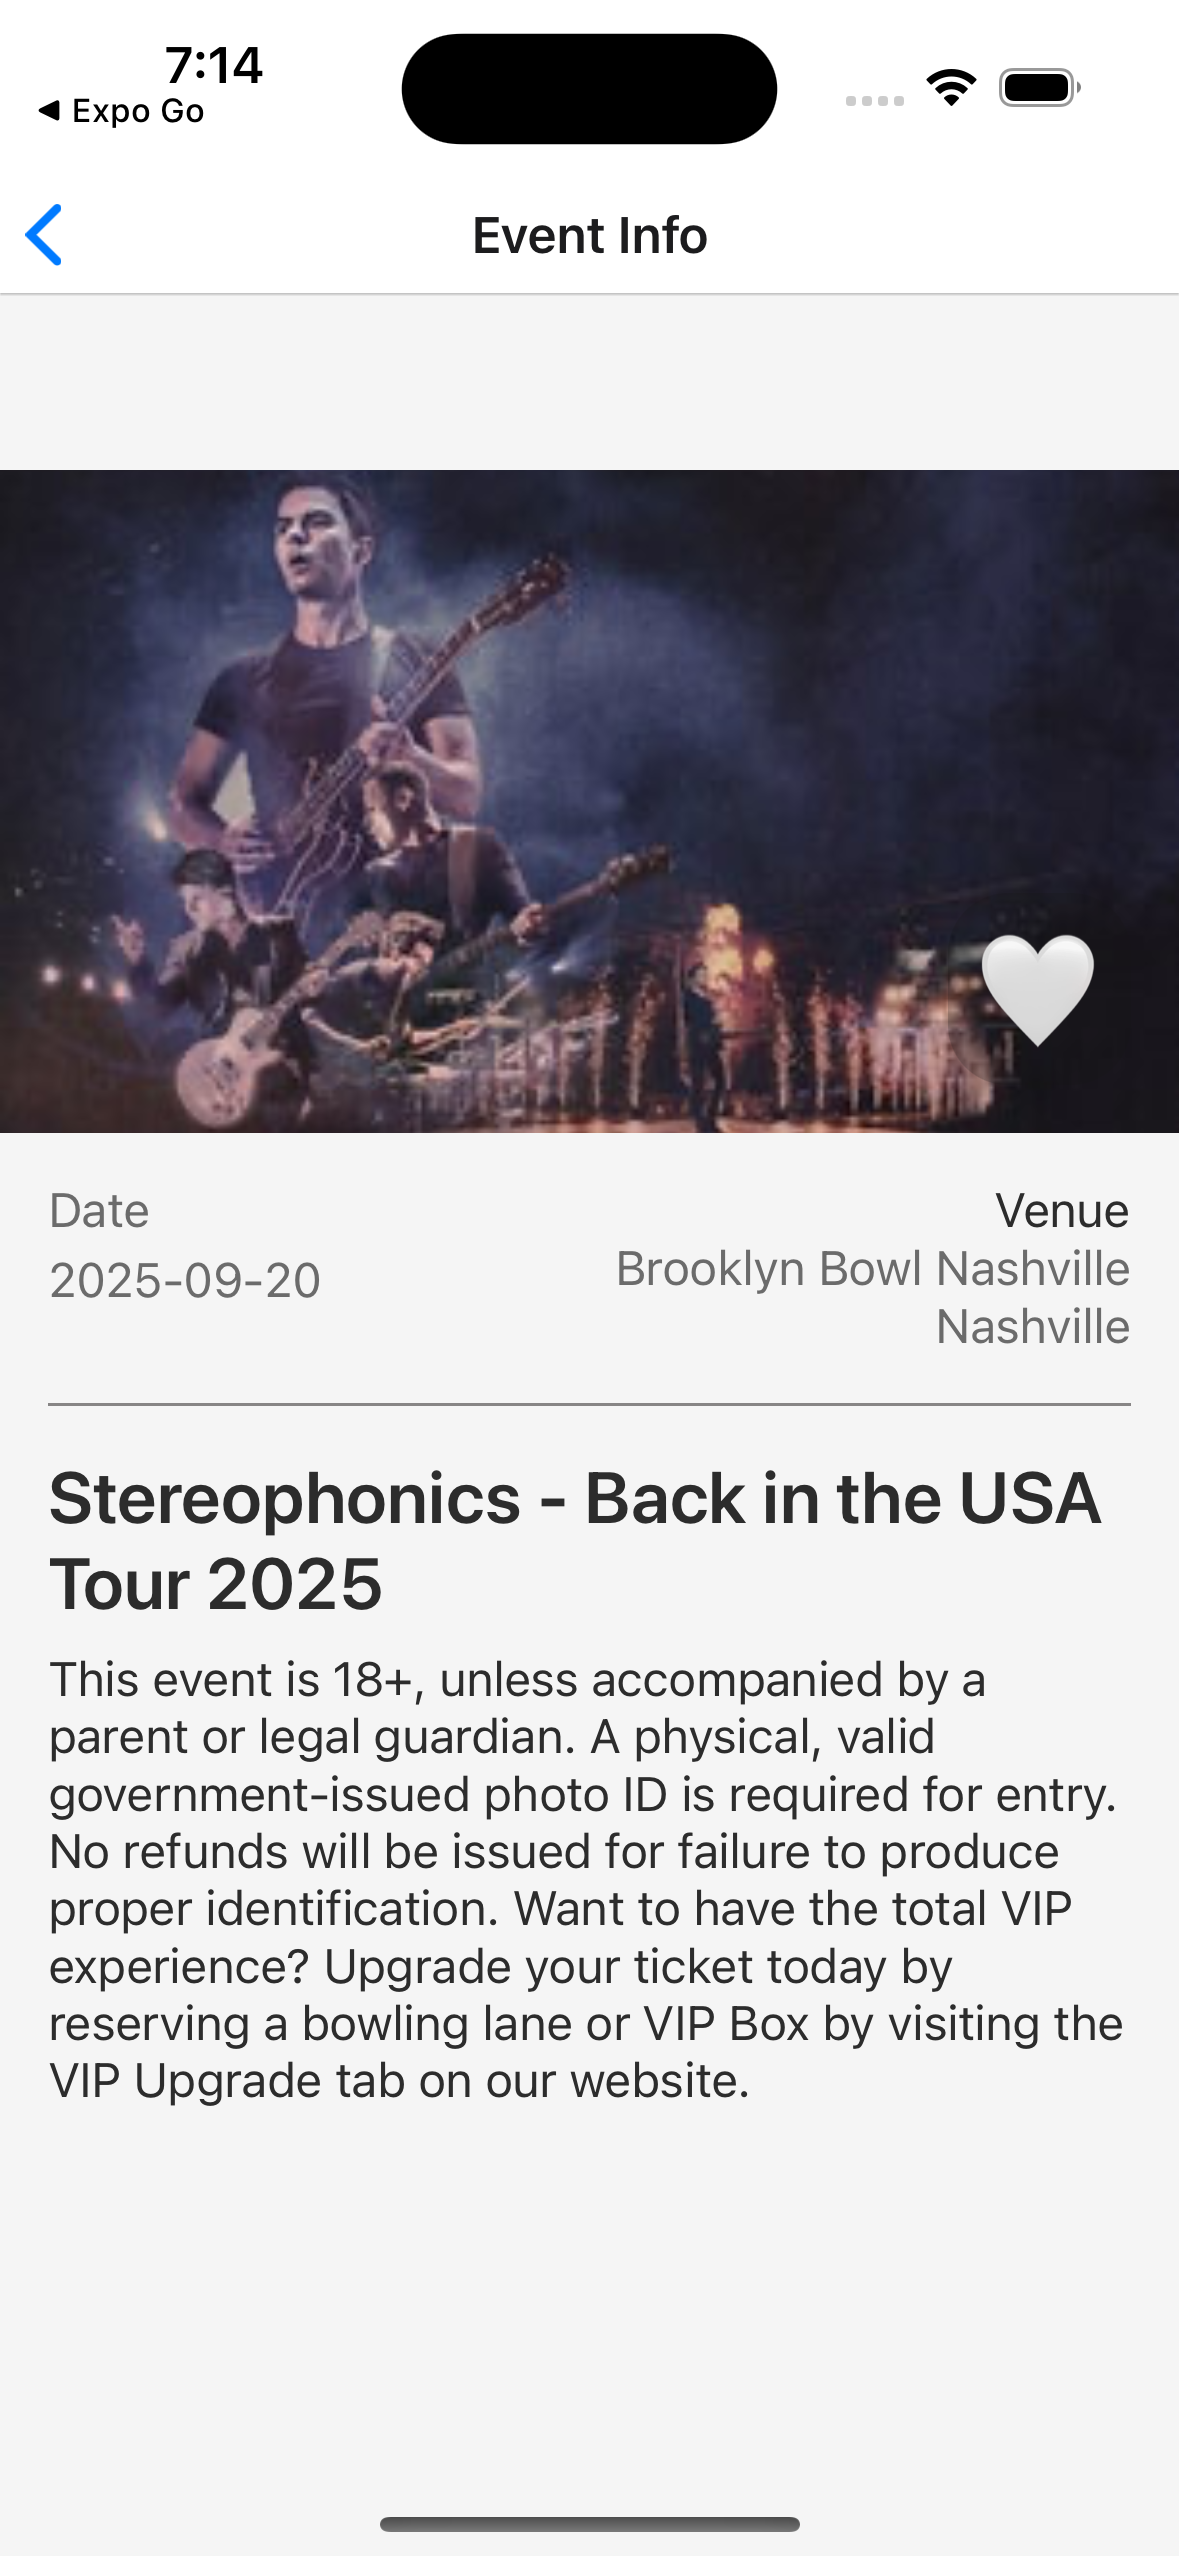
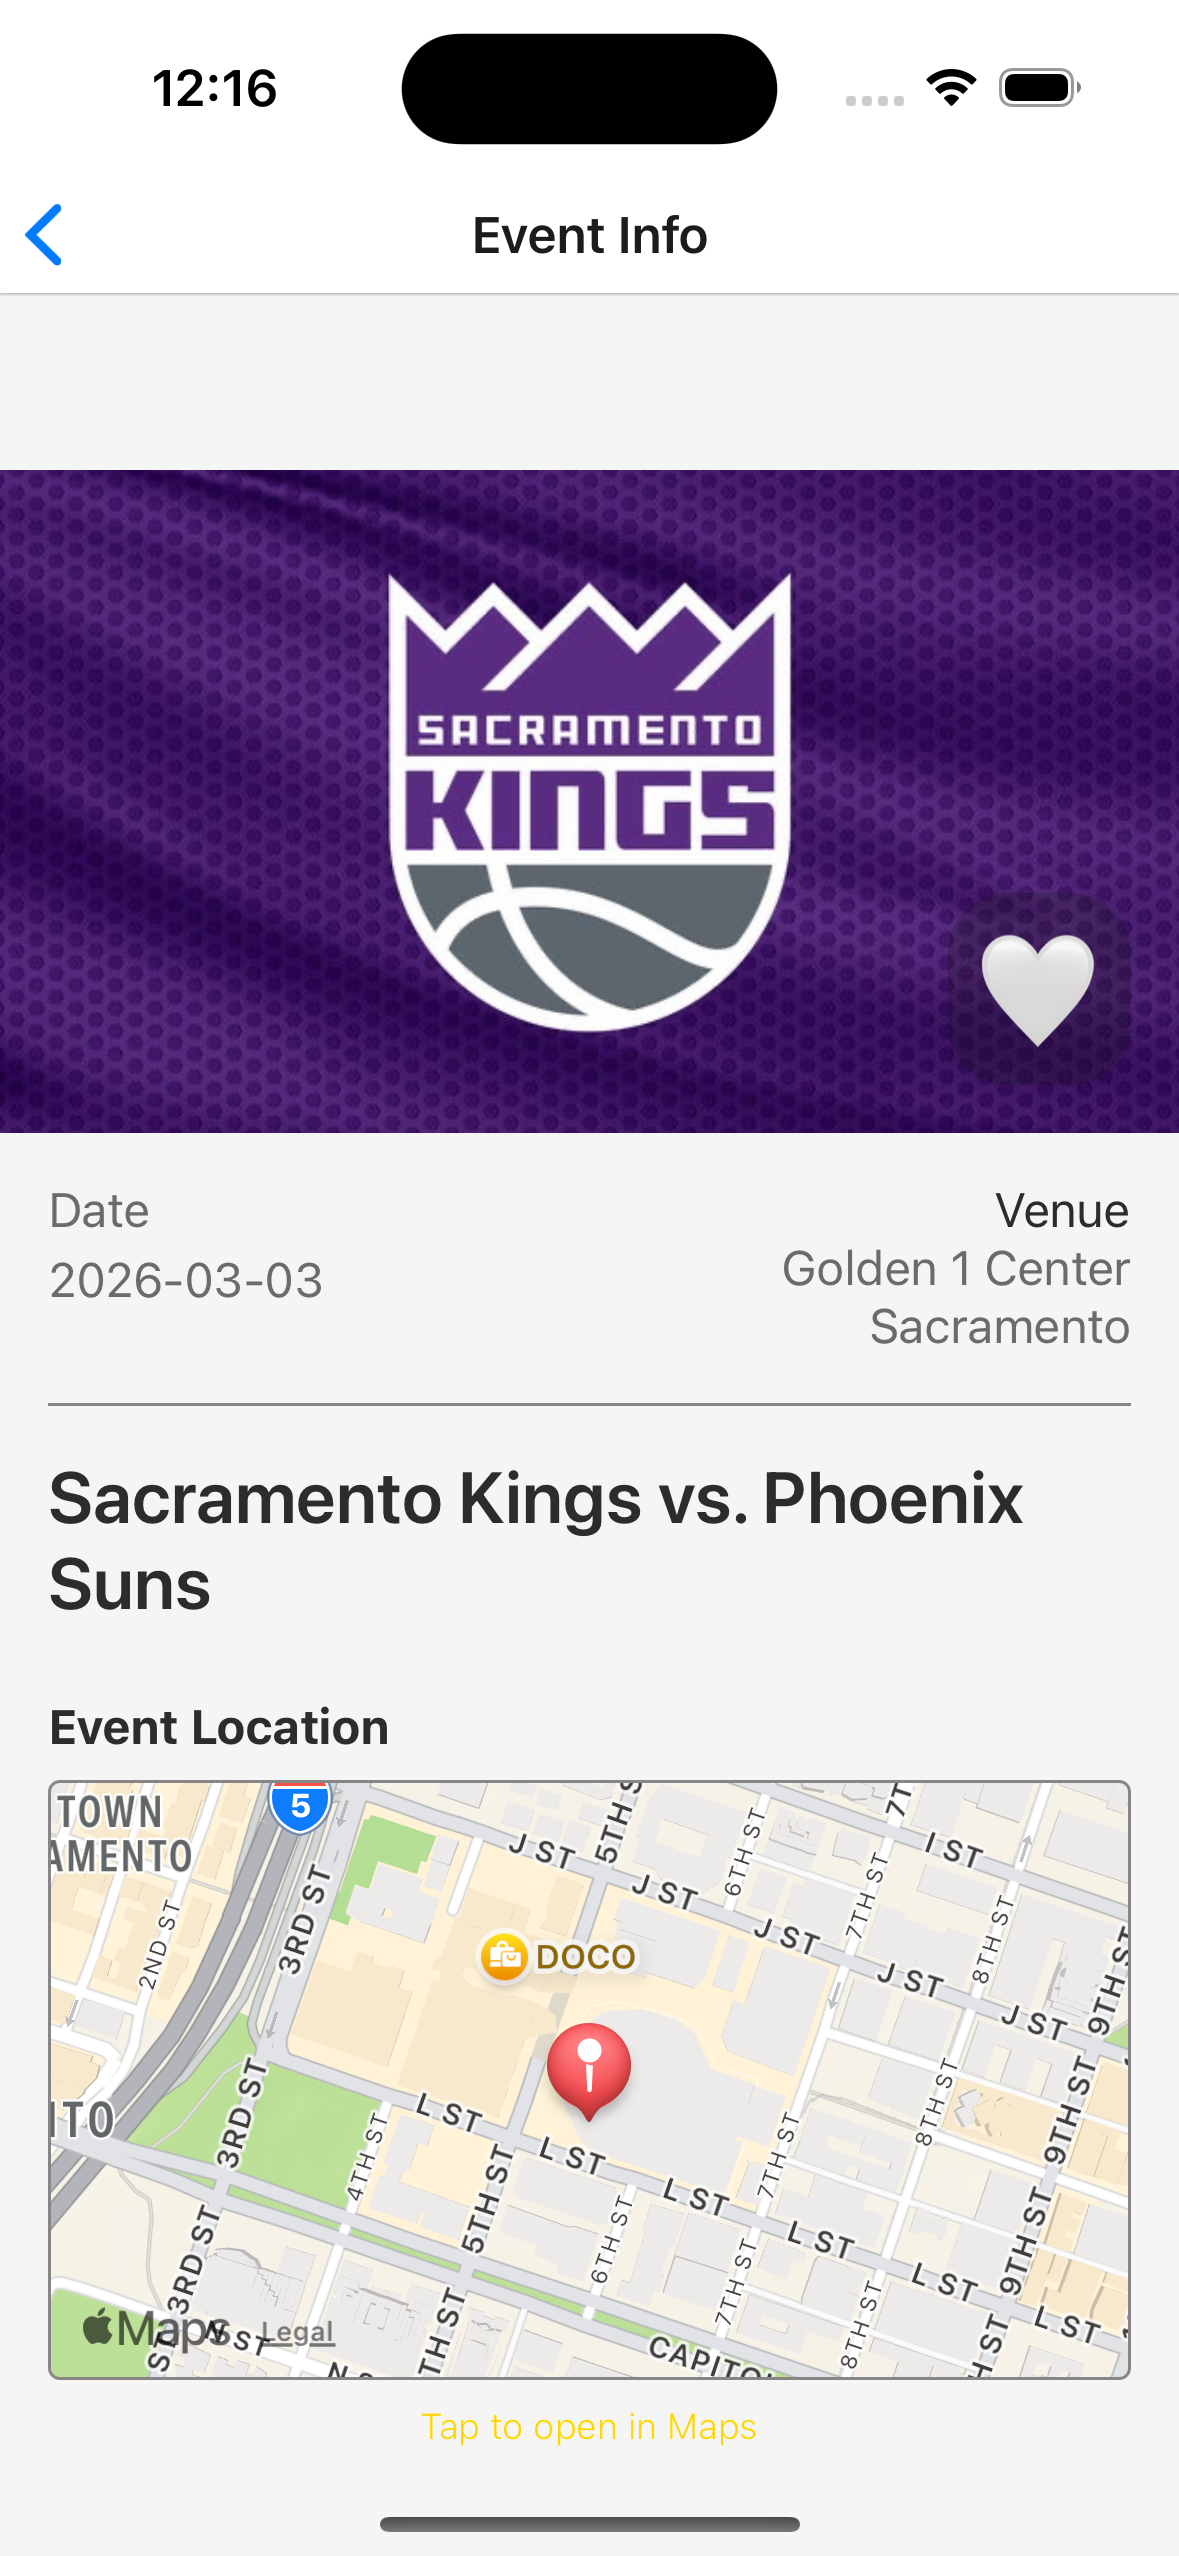
Adds map component

diff --git a/src/components/MapView.tsx b/src/components/MapView.tsx
@@ -1,0 +1,97 @@
+import React from 'react';
+import { View, StyleSheet, Text, TouchableOpacity } from 'react-native';
+import MapView, { Marker } from 'react-native-maps';
+import openMap from 'react-native-open-maps';
+import { theme } from '../theme/theme';
+import { useLanguage } from '../context/LanguageContext'; 
+import EventDetailsScreen from '../screens/EventDetailsScreen';
+
+interface MapViewProps {
+  latitude: number | string;
+  longitude: number | string;
+  title: string;
+}
+
+const MapViewComponent: React.FC<MapViewProps> = ({ latitude, longitude, title }) => {
+  const { i18n } = useLanguage()
+  const parsedLatitude = parseFloat(String(latitude));
+  const parsedLongitude = parseFloat(String(longitude));
+
+  if (isNaN(parsedLatitude) || isNaN(parsedLongitude)) {
+    console.error('Invalid latitude or longitude');
+    return (
+      <View style={styles.container}>
+        <Text style={styles.errorText}>{i18n.eventDetailsScreen.invalidLocationData}</Text>
+      </View>
+    );
+  }
+
+  const coordinate = { latitude: parsedLatitude, longitude: parsedLongitude };
+  const handleOpenMap = () => {
+    openMap({
+      parsedLatitude,
+      parsedLongitude,
+      query: title,
+    });
+  };
+
+  return (
+    <View style={styles.container}>
+      <Text style={styles.mapTitle}>{i18n.eventDetailsScreen.locationOnMap}</Text>
+      <TouchableOpacity onPress={handleOpenMap} style={styles.mapTouchArea}>
+        <MapView
+          style={styles.map}
+          initialRegion={{
+            ...coordinate,
+            latitudeDelta: 0.005,
+            longitudeDelta: 0.005,
+          }}
+          scrollEnabled={false}
+          zoomEnabled={false}
+          pitchEnabled={false}
+          rotateEnabled={false}
+        >
+          <Marker
+            coordinate={coordinate}
+            title={title}
+          />
+        </MapView>
+      </TouchableOpacity>
+      <Text style={styles.tapPrompt}>{i18n.eventDetailsScreen.tapToOpenInMaps}</Text>
+    </View>
+  );
+};
+
+const styles = StyleSheet.create({
+  container: {
+    marginVertical: theme.spacing.m,
+  },
+  mapTitle: {
+    ...theme.typography.fontStyles.body,
+    fontWeight: 'bold',
+    marginBottom: theme.spacing.s,
+  },
+  mapTouchArea: {
+    height: 200,
+    borderRadius: theme.spacing.xs,
+    overflow: 'hidden',
+    borderColor: theme.colors.border,
+    borderWidth: 1,
+  },
+  map: {
+    ...StyleSheet.absoluteFillObject,
+  },
+  tapPrompt: {
+    ...theme.typography.fontStyles.light,
+    textAlign: 'center',
+    marginTop: theme.spacing.s,
+    color: theme.colors.secondary,
+  },
+   errorText: {
+    ...theme.typography.fontStyles.body,
+    color: theme.colors.error,
+    textAlign: 'center',
+  },
+});
+
+export default MapViewComponent;

diff --git a/src/screens/EventDetailsScreen.tsx b/src/screens/EventDetailsScreen.tsx
@@ -13,6 +13,8 @@ import { theme } from '../theme/theme';
 import { useLanguage } from '../context/LanguageContext';
 import { useFavorites } from '../hooks/useFavorites';
 import RootStackParamList from '../navigation/NavigationParams';
+import MapViewComponent from '../components/MapView';
+import { TransformedEvent } from '../services/apiModels';
 
 type EventDetailsRouteProp = RouteProp<RootStackParamList, 'EventDetails'>;
 type EventDetailsNavigationProp = StackNavigationProp<RootStackParamList, 'EventDetails'>;
@@ -25,6 +27,7 @@ const EventDetailsScreen = () => {
   const { favorites, toggleFavorite, isFavorite } = useFavorites();
 
   const isRTL = language === 'ar';
+  const isLocationValid = event.venueLat &&  event.venueLong;
 
   return (
     <SafeAreaView style={theme.commonStyles.safeArea}>
@@ -61,6 +64,13 @@ const EventDetailsScreen = () => {
             <Text style={[styles.description, isRTL && { textAlign: 'right' }]}>
               {event.fullDescription}
             </Text>
+          )}                    
+          { isLocationValid && (
+            <MapViewComponent
+              latitude={event.venueLat}
+              longitude={event.venueLong}
+              title={i18n.eventDetailsScreen.venue}
+            />
           )}
         </View>
       </ScrollView>

diff --git a/src/services/apiService.ts b/src/services/apiService.ts
@@ -19,6 +19,8 @@ const apiService = {
         date: rawEvent.dates?.start?.localDate || '',
         venueName: rawEvent._embedded?.venues?.[0]?.name || '',
         venueCity: rawEvent._embedded?.venues?.[0]?.city?.name || '',
+        venueLat: rawEvent._embedded?.venues?.[0]?.location?.latitude || '',
+        venueLong: rawEvent._embedded?.venues?.[0]?.location?.longitude || '',
       }));
       return transformedEvents;
     } catch (error) {

diff --git a/src/localization/ar.ts b/src/localization/ar.ts
@@ -48,6 +48,9 @@ export const ar = {
     title: 'معلومات الفعالية',
     venue: 'المكان',
     date: 'التاريخ',
+    invalidLocationData: 'بيانات الموقع غير صالحة.',
+    locationOnMap: 'موقع الفعالية',
+    tapToOpenInMaps: 'اضغط للفتح في الخرائط',
   },
   profileScreen: {
     logout: 'تسجيل الخروج',

diff --git a/src/services/apiModels.ts b/src/services/apiModels.ts
@@ -18,6 +18,7 @@ export interface RawVenue {
   name: string;
   city: { name: string };
   state: { name: string };
+  location : { longitude: string, latitude: string }
 }
 
 export interface RawEvent {
@@ -53,4 +54,6 @@ export interface TransformedEvent {
   date: string;
   venueName: string;
   venueCity: string;
+  venueLat: string;
+  venueLong: string;
 }

diff --git a/src/localization/en.ts b/src/localization/en.ts
@@ -48,6 +48,9 @@ export const en = {
     title: 'Event Info',
     venue: 'Venue',
     date: 'Date',
+    invalidLocationData: 'Invalid location data.',
+    locationOnMap: 'Event Location',
+    tapToOpenInMaps: 'Tap to open in Maps',
   },
   profileScreen: {
     logout: 'Logout',
